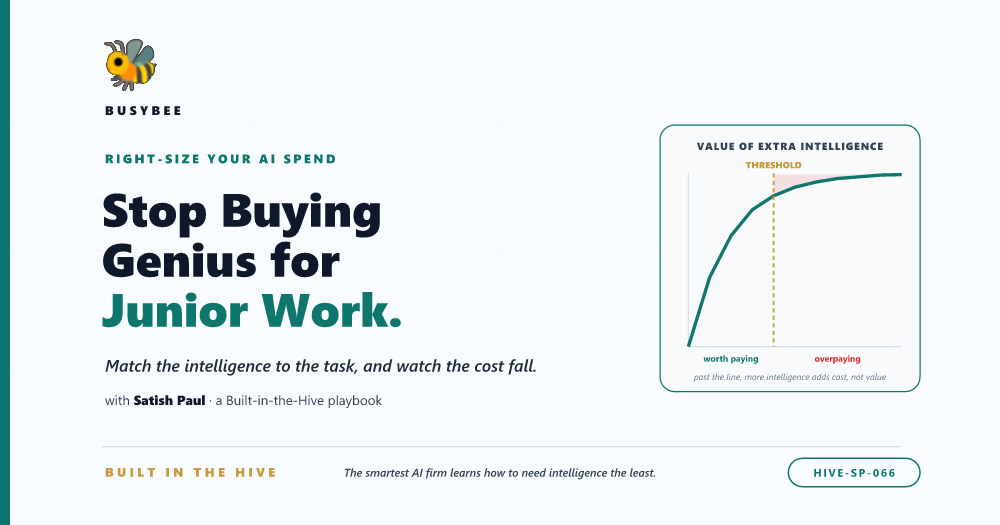
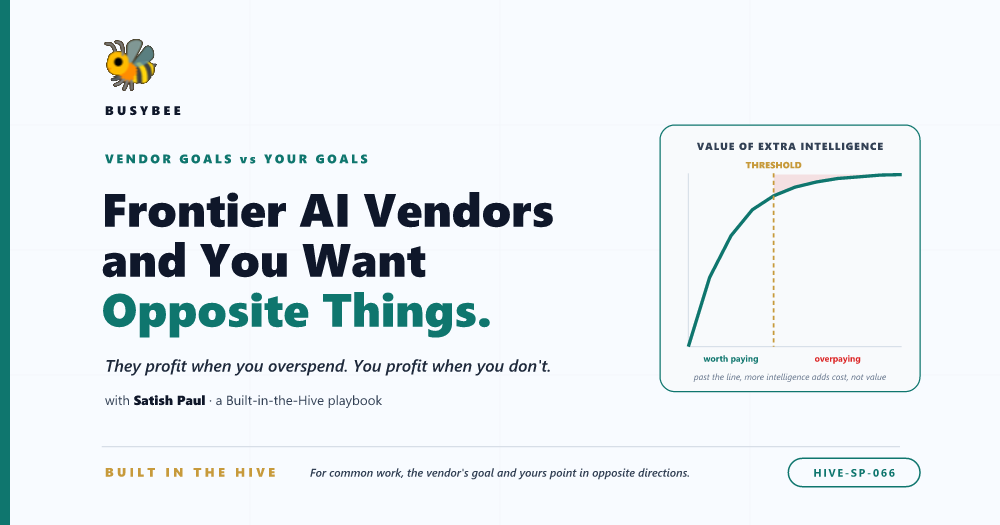
Revise HIVE-SP-066: opposite-incentives title, all-proserv examples, Azure control plane, 7 charts

diff --git a/linkedin-article-assets/HIVE-SP-066-right-size-intelligence-spend/README.md b/linkedin-article-assets/HIVE-SP-066-right-size-intelligence-spend/README.md
@@ -1,12 +1,12 @@
-# Stop Buying Genius for Junior Work
+# Frontier AI Vendors and You Want Opposite Things
 
-A Built-in-the-Hive playbook: frontier models are astonishing, but most enterprise work is not a discovery problem, it is a context-and-execution problem. Every workload has an intelligence threshold, and past it more intelligence adds cost, not value. This shows professional-services teams how to right-size their AI spend, route each unit of work to the cheapest system that still gets it right, reserve frontier models for genuine discovery, and drive intelligence consumed per successful outcome toward zero. Built on Azure AI Foundry model routing, Copilot Studio, Dataverse, Power BI, and Purview. Figures are illustrative or drawn from public industry data.
+A Built-in-the-Hive playbook: on most professional-services work a frontier-model vendor profits when you overspend on intelligence and your firm profits when you don't, so their objectives are diametrically opposed for common use cases. Every workload has an intelligence threshold, and past it more intelligence adds cost, not value. This shows Tax, Audit, Advisory, and IT Consulting teams how to own the routing decision on Azure, the APIM GenAI gateway, the Azure AI Foundry model router, Foundry Local, Azure AI Agent Service, and Purview plus Dataverse plus Power BI, so cost per successful outcome falls. Figures are illustrative or from public industry data.
 
-Companion article: "Stop Buying Genius for Junior Work" (Built in the Hive, HIVE-SP-066).
+Companion article: "Frontier AI Vendors and You Want Opposite Things" (Built in the Hive, HIVE-SP-066).
 
 ## Business value
 
-Frontier AI models are astonishing, and in the right place worth a fortune: a decades-old proof cracked, hundreds of deep software bugs found. But the public scoreboard is built from work that can be cleanly verified, and most of the economy does not work that way. A claims adjuster, a nurse, a logistics coordinator are not making discoveries; they are applying what their organization already knows across millions of decisions. Every workload has an intelligence threshold: below it the model fails, near it more intelligence is hugely valuable, and past it more intelligence adds cost, not value. Meanwhile models keep getting smarter while refund policies and invoice matching do not. The move is to right-size: route each unit of work to the cheapest system that still gets it right, reserve frontier models for the thin slice of genuine discovery, and drive intelligence consumed per successful outcome toward zero.
+Frontier AI models are astonishing, and in the right place worth a fortune. But on most of what a professional-services firm actually bills for, the model vendor's goal and your goal are diametrically opposed: the vendor profits when you consume more intelligence, and you profit when you consume less. A tax preparer, an auditor, an advisory consultant, an IT analyst are not making discoveries; they are applying the firm's rules, precedents, and this client's data. Every workload has an intelligence threshold: below it the model fails, near it more intelligence is hugely valuable, and past it more intelligence adds cost, not value. Models keep getting smarter while refund-policy lookups and depreciation calculations do not. The move is to own the routing decision rather than leave it to whoever profits from the answer being "more": route each unit of work to the cheapest system that still gets it right, reserve frontier models for genuine novelty, and drive intelligence consumed per successful outcome toward zero. Azure ships the exact control plane to do it.
 
 ## What it does
 
